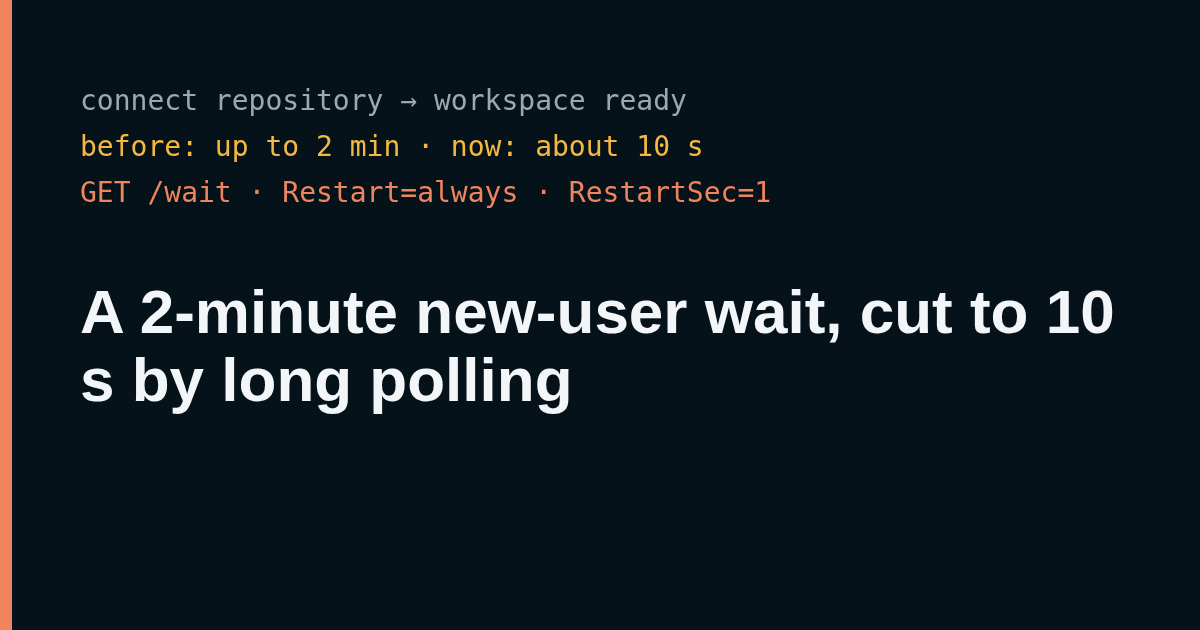
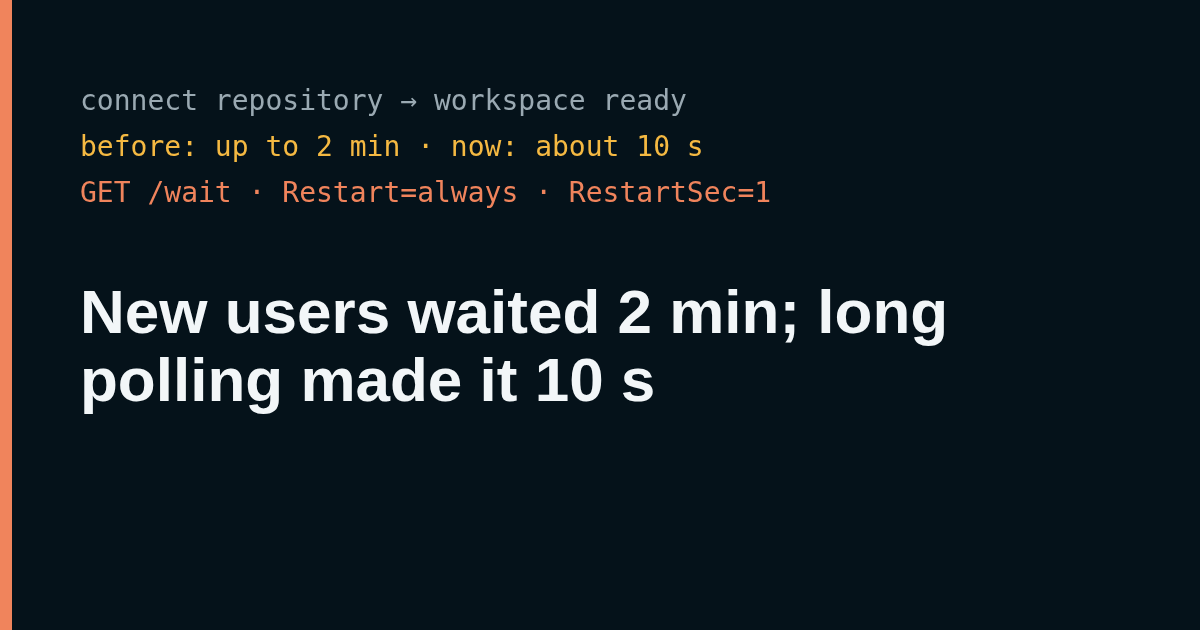
博文：标题改成从 2 分钟到 10 秒的对比 (#960)

Changed region(s): [[0.0617, 0.4524, 0.925, 0.6635]]

diff --git a/public/zh/blog/long-polling-new-user-wait/index.html b/public/zh/blog/long-polling-new-user-wait/index.html
@@ -3,20 +3,20 @@
 <head>
   <meta charset="utf-8">
   <meta name="viewport" content="width=device-width, initial-scale=1">
-  <title>环境早就好了，用户却走了：我们一夜把干等压到 10 秒 | Orbi</title>
-  <meta name="description" content="有个用户在环境已经准备好之后走了，因为页面还没告诉他。我们换成长轮询、让 systemd 当循环消掉排队，再抠掉几处准备时间，测试环境上从一两分钟压到了 10 秒左右。">
+  <title>新用户干等从 2 分钟压到 10 秒：长轮询，没加一台机器 | Orbi</title>
+  <meta name="description" content="有个用户在环境已经准备好之后走了，因为页面还没告诉他。我们改用长轮询消掉排队，再抠掉几处准备时间，测试环境上从一两分钟压到了 10 秒左右，机器一台没加。">
   <link rel="canonical" href="https://orbi.build/zh/blog/long-polling-new-user-wait/">
   <link rel="alternate" hreflang="en" href="https://orbi.build/blog/long-polling-new-user-wait/">
   <link rel="alternate" hreflang="zh-CN" href="https://orbi.build/zh/blog/long-polling-new-user-wait/">
   <link rel="alternate" hreflang="x-default" href="https://orbi.build/blog/long-polling-new-user-wait/">
   <meta property="og:type" content="article">
-  <meta property="og:title" content="环境早就好了，用户却走了：我们一夜把干等压到 10 秒">
-  <meta property="og:description" content="有个用户在环境已经准备好之后走了，因为页面还没告诉他。我们换成长轮询、让 systemd 当循环消掉排队，再抠掉几处准备时间，测试环境上从一两分钟压到了 10 秒左右。">
+  <meta property="og:title" content="新用户干等从 2 分钟压到 10 秒：长轮询，没加一台机器">
+  <meta property="og:description" content="有个用户在环境已经准备好之后走了，因为页面还没告诉他。我们改用长轮询消掉排队，再抠掉几处准备时间，测试环境上从一两分钟压到了 10 秒左右，机器一台没加。">
   <meta property="og:url" content="https://orbi.build/zh/blog/long-polling-new-user-wait/">
   <meta property="og:image" content="https://orbi.build/img/blog-longpoll-card.png">
-  <meta property="og:image:alt" content="环境早就好了，用户却走了：我们一夜把干等压到 10 秒">
+  <meta property="og:image:alt" content="新用户干等从 2 分钟压到 10 秒：长轮询，没加一台机器">
   <meta property="article:published_time" content="2026-10-12">
-  <script type="application/ld+json">{"@context":"https://schema.org","@type":"Article","headline":"环境早就好了，用户却走了：我们一夜把干等压到 10 秒","datePublished":"2026-10-12","author":{"@type":"Person","name":"Lawrence Liu","url":"https://orbi.build/zh/about/lawrence-liu/","sameAs":["https://github.com/xqliu","https://x.com/xqliu"]},"publisher":{"@type":"Organization","name":"Orbi","url":"https://orbi.build/","logo":{"@type":"ImageObject","url":"https://orbi.build/logo-mark.svg"}},"mainEntityOfPage":"https://orbi.build/zh/blog/long-polling-new-user-wait/","image":"https://orbi.build/img/blog-longpoll-card.png","inLanguage":"zh-CN","description":"有个用户在环境已经准备好之后走了，因为页面还没告诉他。我们换成长轮询、让 systemd 当循环消掉排队，再抠掉几处准备时间，测试环境上从一两分钟压到了 10 秒左右。","url":"https://orbi.build/zh/blog/long-polling-new-user-wait/"}</script>
+  <script type="application/ld+json">{"@context":"https://schema.org","@type":"Article","headline":"新用户干等从 2 分钟压到 10 秒：长轮询，没加一台机器","datePublished":"2026-10-12","author":{"@type":"Person","name":"Lawrence Liu","url":"https://orbi.build/zh/about/lawrence-liu/","sameAs":["https://github.com/xqliu","https://x.com/xqliu"]},"publisher":{"@type":"Organization","name":"Orbi","url":"https://orbi.build/","logo":{"@type":"ImageObject","url":"https://orbi.build/logo-mark.svg"}},"mainEntityOfPage":"https://orbi.build/zh/blog/long-polling-new-user-wait/","image":"https://orbi.build/img/blog-longpoll-card.png","inLanguage":"zh-CN","description":"有个用户在环境已经准备好之后走了，因为页面还没告诉他。我们改用长轮询消掉排队，再抠掉几处准备时间，测试环境上从一两分钟压到了 10 秒左右，机器一台没加。","url":"https://orbi.build/zh/blog/long-polling-new-user-wait/"}</script>
   <link rel="icon" href="/favicon.svg" type="image/svg+xml">
   <meta name="theme-color" content="#06151b">
 
@@ -152,10 +152,10 @@
       <div class="post-grid">
         <section class="post-hero" aria-labelledby="post-title">
           <p class="eyebrow">博客</p>
-          <h1 id="post-title">环境早就好了，用户却走了：我们一夜把干等压到 10 秒</h1>
+          <h1 id="post-title">新用户干等从 2 分钟压到 10 秒：长轮询，没加一台机器</h1>
           <p class="post-byline"><a href="/zh/about/lawrence-liu/">Lawrence Liu</a> · <time datetime="2026-10-12">2026-10-12</time></p>
 
-          <p class="hero-lede">有个用户在环境已经准备好之后走了，因为页面还没告诉他。我们换成长轮询、让 systemd 当循环消掉排队，再抠掉几处准备时间，测试环境上从一两分钟压到了 10 秒左右。</p>
+          <p class="hero-lede">有个用户在环境已经准备好之后走了，因为页面还没告诉他。我们改用长轮询消掉排队，再抠掉几处准备时间，测试环境上从一两分钟压到了 10 秒左右，机器一台没加。</p>
         </section>
       </div>
     </div>

diff --git a/public/blog/long-polling-new-user-wait/index.html b/public/blog/long-polling-new-user-wait/index.html
@@ -3,20 +3,20 @@
 <head>
   <meta charset="utf-8">
   <meta name="viewport" content="width=device-width, initial-scale=1">
-  <title>A 2-minute new-user wait, cut to 10 s by long polling | Orbi</title>
+  <title>New users waited 2 min; long polling made it 10 s | Orbi</title>
   <meta name="description" content="One new user left our preparing page after their workspace was already ready. Long polling and a handful of small fixes cut the wait to about 10 seconds.">
   <link rel="canonical" href="https://orbi.build/blog/long-polling-new-user-wait/">
   <link rel="alternate" hreflang="en" href="https://orbi.build/blog/long-polling-new-user-wait/">
   <link rel="alternate" hreflang="zh-CN" href="https://orbi.build/zh/blog/long-polling-new-user-wait/">
   <link rel="alternate" hreflang="x-default" href="https://orbi.build/blog/long-polling-new-user-wait/">
   <meta property="og:type" content="article">
-  <meta property="og:title" content="A 2-minute new-user wait, cut to 10 s by long polling">
+  <meta property="og:title" content="New users waited 2 min; long polling made it 10 s">
   <meta property="og:description" content="One new user left our preparing page after their workspace was already ready. Long polling and a handful of small fixes cut the wait to about 10 seconds.">
   <meta property="og:url" content="https://orbi.build/blog/long-polling-new-user-wait/">
   <meta property="og:image" content="https://orbi.build/img/blog-longpoll-card.png">
-  <meta property="og:image:alt" content="A 2-minute new-user wait, cut to 10 s by long polling">
+  <meta property="og:image:alt" content="New users waited 2 min; long polling made it 10 s">
   <meta property="article:published_time" content="2026-10-12">
-  <script type="application/ld+json">{"@context":"https://schema.org","@type":"Article","headline":"A 2-minute new-user wait, cut to 10 s by long polling","datePublished":"2026-10-12","author":{"@type":"Person","name":"Lawrence Liu","url":"https://orbi.build/about/lawrence-liu/","sameAs":["https://github.com/xqliu","https://x.com/xqliu"]},"publisher":{"@type":"Organization","name":"Orbi","url":"https://orbi.build/","logo":{"@type":"ImageObject","url":"https://orbi.build/logo-mark.svg"}},"mainEntityOfPage":"https://orbi.build/blog/long-polling-new-user-wait/","image":"https://orbi.build/img/blog-longpoll-card.png","inLanguage":"en","description":"One new user left our preparing page after their workspace was already ready. Long polling and a handful of small fixes cut the wait to about 10 seconds.","url":"https://orbi.build/blog/long-polling-new-user-wait/"}</script>
+  <script type="application/ld+json">{"@context":"https://schema.org","@type":"Article","headline":"New users waited 2 min; long polling made it 10 s","datePublished":"2026-10-12","author":{"@type":"Person","name":"Lawrence Liu","url":"https://orbi.build/about/lawrence-liu/","sameAs":["https://github.com/xqliu","https://x.com/xqliu"]},"publisher":{"@type":"Organization","name":"Orbi","url":"https://orbi.build/","logo":{"@type":"ImageObject","url":"https://orbi.build/logo-mark.svg"}},"mainEntityOfPage":"https://orbi.build/blog/long-polling-new-user-wait/","image":"https://orbi.build/img/blog-longpoll-card.png","inLanguage":"en","description":"One new user left our preparing page after their workspace was already ready. Long polling and a handful of small fixes cut the wait to about 10 seconds.","url":"https://orbi.build/blog/long-polling-new-user-wait/"}</script>
   <link rel="icon" href="/favicon.svg" type="image/svg+xml">
   <meta name="theme-color" content="#06151b">
 
@@ -152,7 +152,7 @@
       <div class="post-grid">
         <section class="post-hero" aria-labelledby="post-title">
           <p class="eyebrow">Blog</p>
-          <h1 id="post-title">A 2-minute new-user wait, cut to 10 s by long polling</h1>
+          <h1 id="post-title">New users waited 2 min; long polling made it 10 s</h1>
           <p class="post-byline"><a href="/about/lawrence-liu/">Lawrence Liu</a> · <time datetime="2026-10-12">2026-10-12</time></p>
 
           <p class="hero-lede">One new user left our preparing page after their workspace was already ready. Long polling and a handful of small fixes cut the wait to about 10 seconds.</p>

diff --git a/public/zh/about/lawrence-liu/index.html b/public/zh/about/lawrence-liu/index.html
@@ -90,9 +90,9 @@
     <section class="compare-section shell" aria-label="Lawrence Liu 的文章">
       <div class="post-list">
     <article class="post-entry">
-      <h2 class="post-entry-title"><a href="/zh/blog/long-polling-new-user-wait/">环境早就好了，用户却走了：我们一夜把干等压到 10 秒</a></h2>
+      <h2 class="post-entry-title"><a href="/zh/blog/long-polling-new-user-wait/">新用户干等从 2 分钟压到 10 秒：长轮询，没加一台机器</a></h2>
       <p class="post-entry-meta"><time datetime="2026-10-12">2026-10-12</time></p>
-      <p class="post-entry-summary">有个用户在环境已经准备好之后走了，因为页面还没告诉他。我们换成长轮询、让 systemd 当循环消掉排队，再抠掉几处准备时间，测试环境上从一两分钟压到了 10 秒左右。</p>
+      <p class="post-entry-summary">有个用户在环境已经准备好之后走了，因为页面还没告诉他。我们改用长轮询消掉排队，再抠掉几处准备时间，测试环境上从一两分钟压到了 10 秒左右，机器一台没加。</p>
     </article>
     <article class="post-entry">
       <h2 class="post-entry-title"><a href="/zh/blog/claude-code-sandbox/">Claude Code 沙箱实测：跳过权限时，哪种配置拦得住越界</a></h2>

diff --git a/public/zh/blog/index.html b/public/zh/blog/index.html
@@ -77,9 +77,9 @@
     <section class="compare-section shell" aria-label="文章列表">
       <div class="post-list">
     <article class="post-entry">
-      <h2 class="post-entry-title"><a href="/zh/blog/long-polling-new-user-wait/">环境早就好了，用户却走了：我们一夜把干等压到 10 秒</a></h2>
+      <h2 class="post-entry-title"><a href="/zh/blog/long-polling-new-user-wait/">新用户干等从 2 分钟压到 10 秒：长轮询，没加一台机器</a></h2>
       <p class="post-entry-meta"><time datetime="2026-10-12">2026-10-12</time></p>
-      <p class="post-entry-summary">有个用户在环境已经准备好之后走了，因为页面还没告诉他。我们换成长轮询、让 systemd 当循环消掉排队，再抠掉几处准备时间，测试环境上从一两分钟压到了 10 秒左右。</p>
+      <p class="post-entry-summary">有个用户在环境已经准备好之后走了，因为页面还没告诉他。我们改用长轮询消掉排队，再抠掉几处准备时间，测试环境上从一两分钟压到了 10 秒左右，机器一台没加。</p>
     </article>
     <article class="post-entry">
       <h2 class="post-entry-title"><a href="/zh/blog/claude-code-sandbox/">Claude Code 沙箱实测：跳过权限时，哪种配置拦得住越界</a></h2>

diff --git a/public/about/lawrence-liu/index.html b/public/about/lawrence-liu/index.html
@@ -90,7 +90,7 @@
     <section class="compare-section shell" aria-label="Posts by Lawrence Liu">
       <div class="post-list">
     <article class="post-entry">
-      <h2 class="post-entry-title"><a href="/blog/long-polling-new-user-wait/">A 2-minute new-user wait, cut to 10 s by long polling</a></h2>
+      <h2 class="post-entry-title"><a href="/blog/long-polling-new-user-wait/">New users waited 2 min; long polling made it 10 s</a></h2>
       <p class="post-entry-meta"><time datetime="2026-10-12">2026-10-12</time></p>
       <p class="post-entry-summary">One new user left our preparing page after their workspace was already ready. Long polling and a handful of small fixes cut the wait to about 10 seconds.</p>
     </article>

diff --git a/public/blog/index.html b/public/blog/index.html
@@ -78,7 +78,7 @@
     <section class="compare-section shell" aria-label="Posts">
       <div class="post-list">
     <article class="post-entry">
-      <h2 class="post-entry-title"><a href="/blog/long-polling-new-user-wait/">A 2-minute new-user wait, cut to 10 s by long polling</a></h2>
+      <h2 class="post-entry-title"><a href="/blog/long-polling-new-user-wait/">New users waited 2 min; long polling made it 10 s</a></h2>
       <p class="post-entry-meta"><time datetime="2026-10-12">2026-10-12</time></p>
       <p class="post-entry-summary">One new user left our preparing page after their workspace was already ready. Long polling and a handful of small fixes cut the wait to about 10 seconds.</p>
     </article>

diff --git a/content/blog/zh/long-polling-new-user-wait.md b/content/blog/zh/long-polling-new-user-wait.md
@@ -1,7 +1,7 @@
 ---
-title: 环境早就好了，用户却走了：我们一夜把干等压到 10 秒
+title: 新用户干等从 2 分钟压到 10 秒：长轮询，没加一台机器
 date: 2026-10-12
-summary: 有个用户在环境已经准备好之后走了，因为页面还没告诉他。我们换成长轮询、让 systemd 当循环消掉排队，再抠掉几处准备时间，测试环境上从一两分钟压到了 10 秒左右。
+summary: 有个用户在环境已经准备好之后走了，因为页面还没告诉他。我们改用长轮询消掉排队，再抠掉几处准备时间，测试环境上从一两分钟压到了 10 秒左右，机器一台没加。
 lang: zh
 author: Lawrence Liu
 image: /img/blog-longpoll-card.png

diff --git a/content/blog/long-polling-new-user-wait.md b/content/blog/long-polling-new-user-wait.md
@@ -1,5 +1,5 @@
 ---
-title: A 2-minute new-user wait, cut to 10 s by long polling
+title: New users waited 2 min; long polling made it 10 s
 date: 2026-10-12
 summary: One new user left our preparing page after their workspace was already ready. Long polling and a handful of small fixes cut the wait to about 10 seconds.
 lang: en
